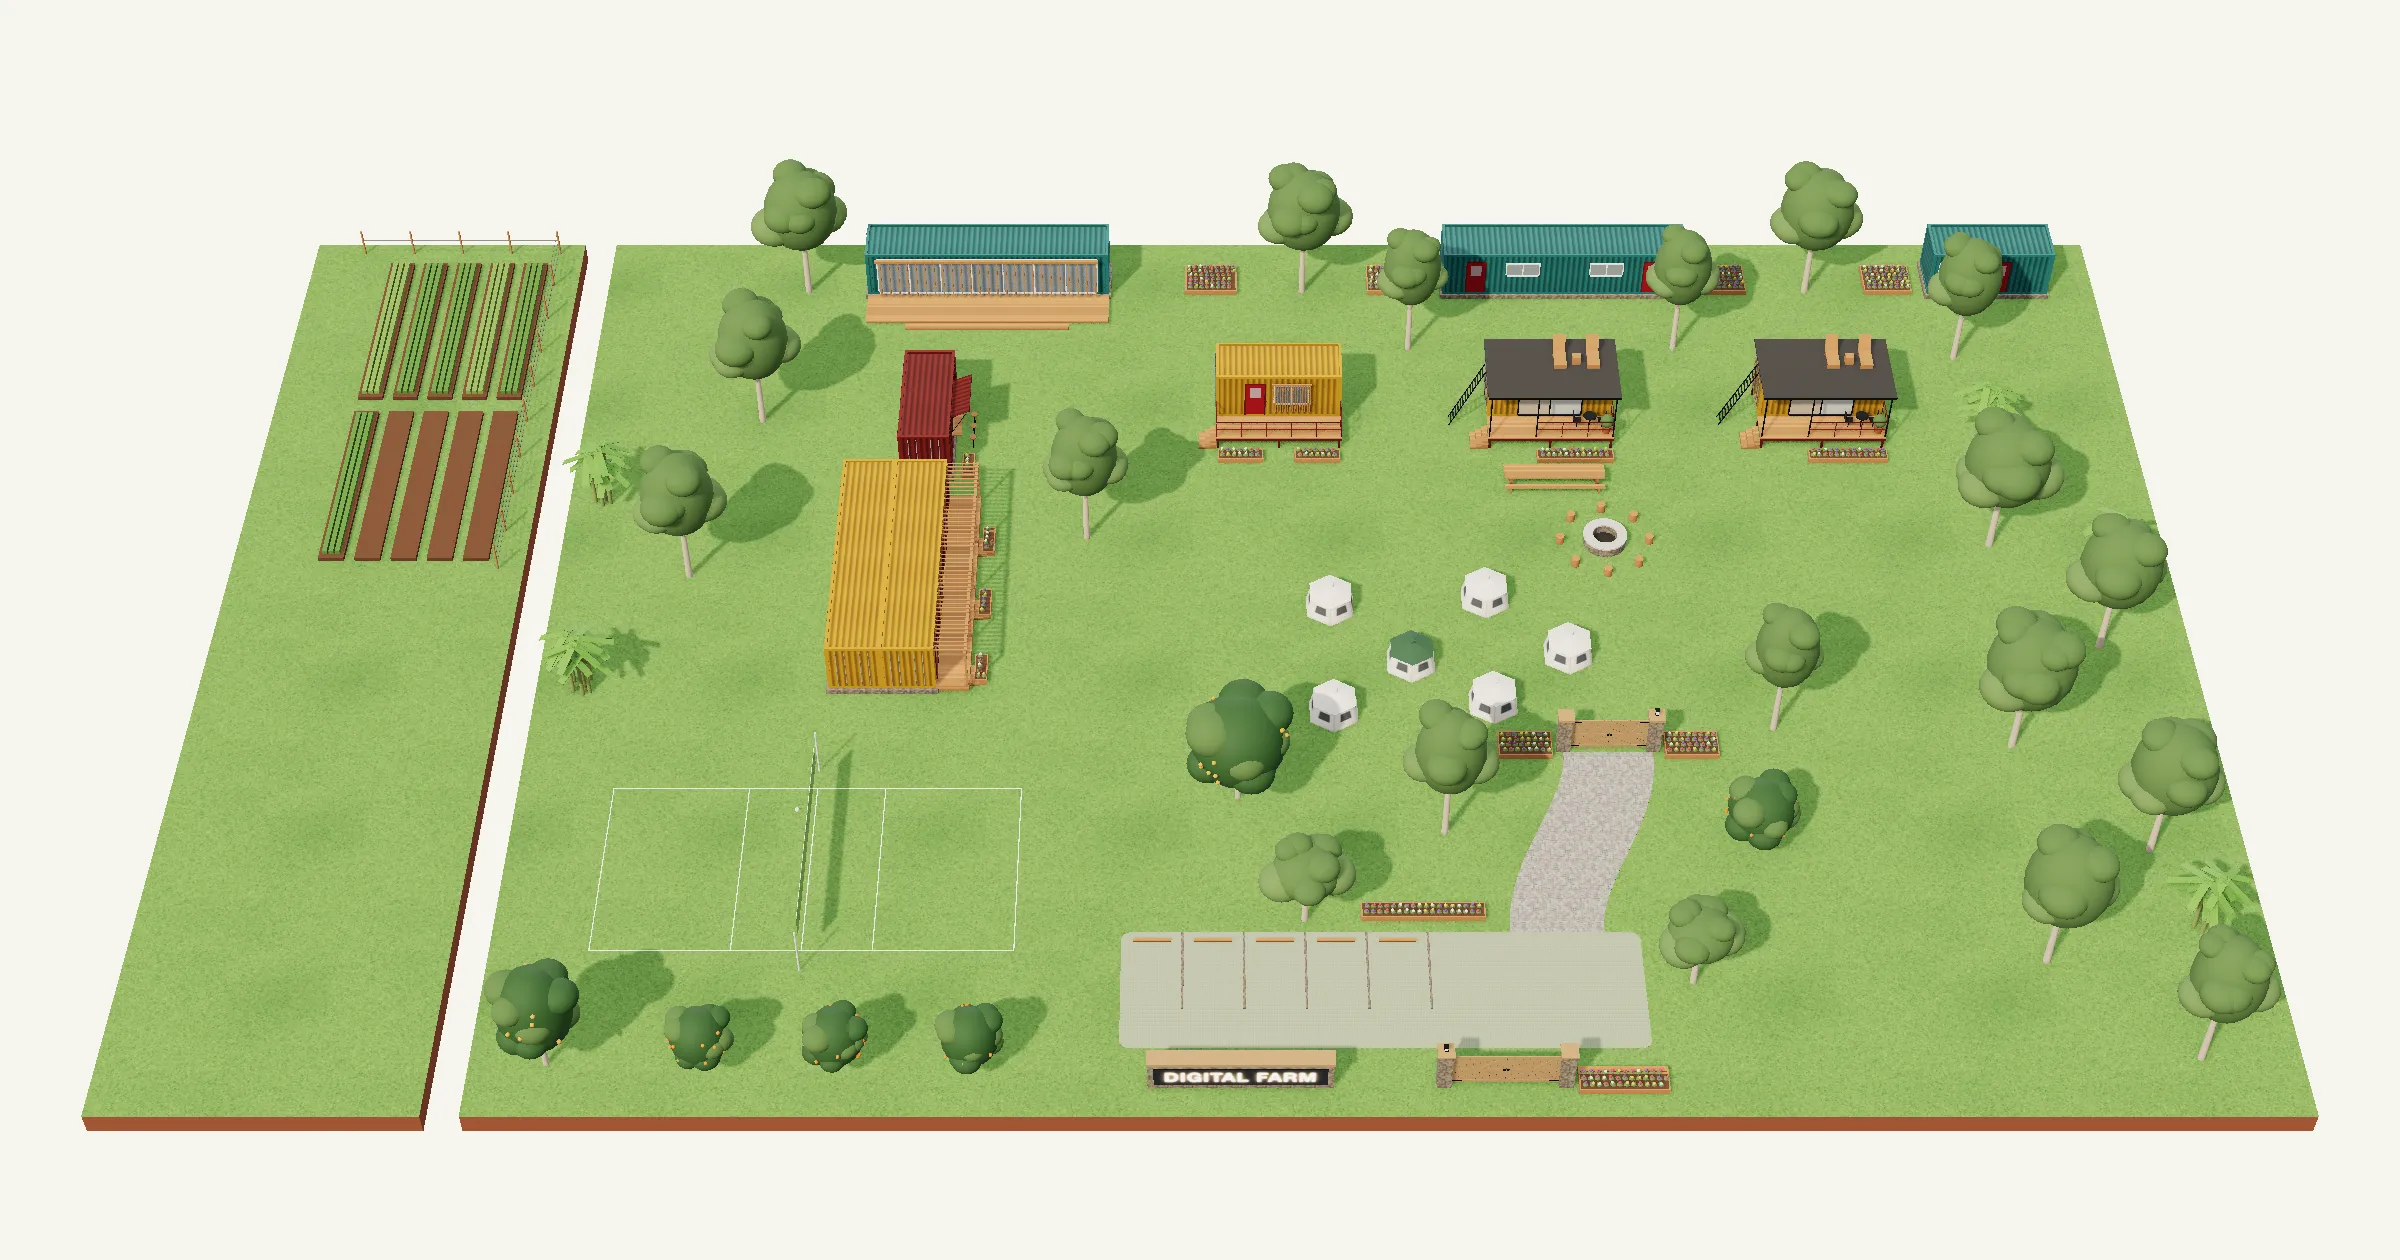
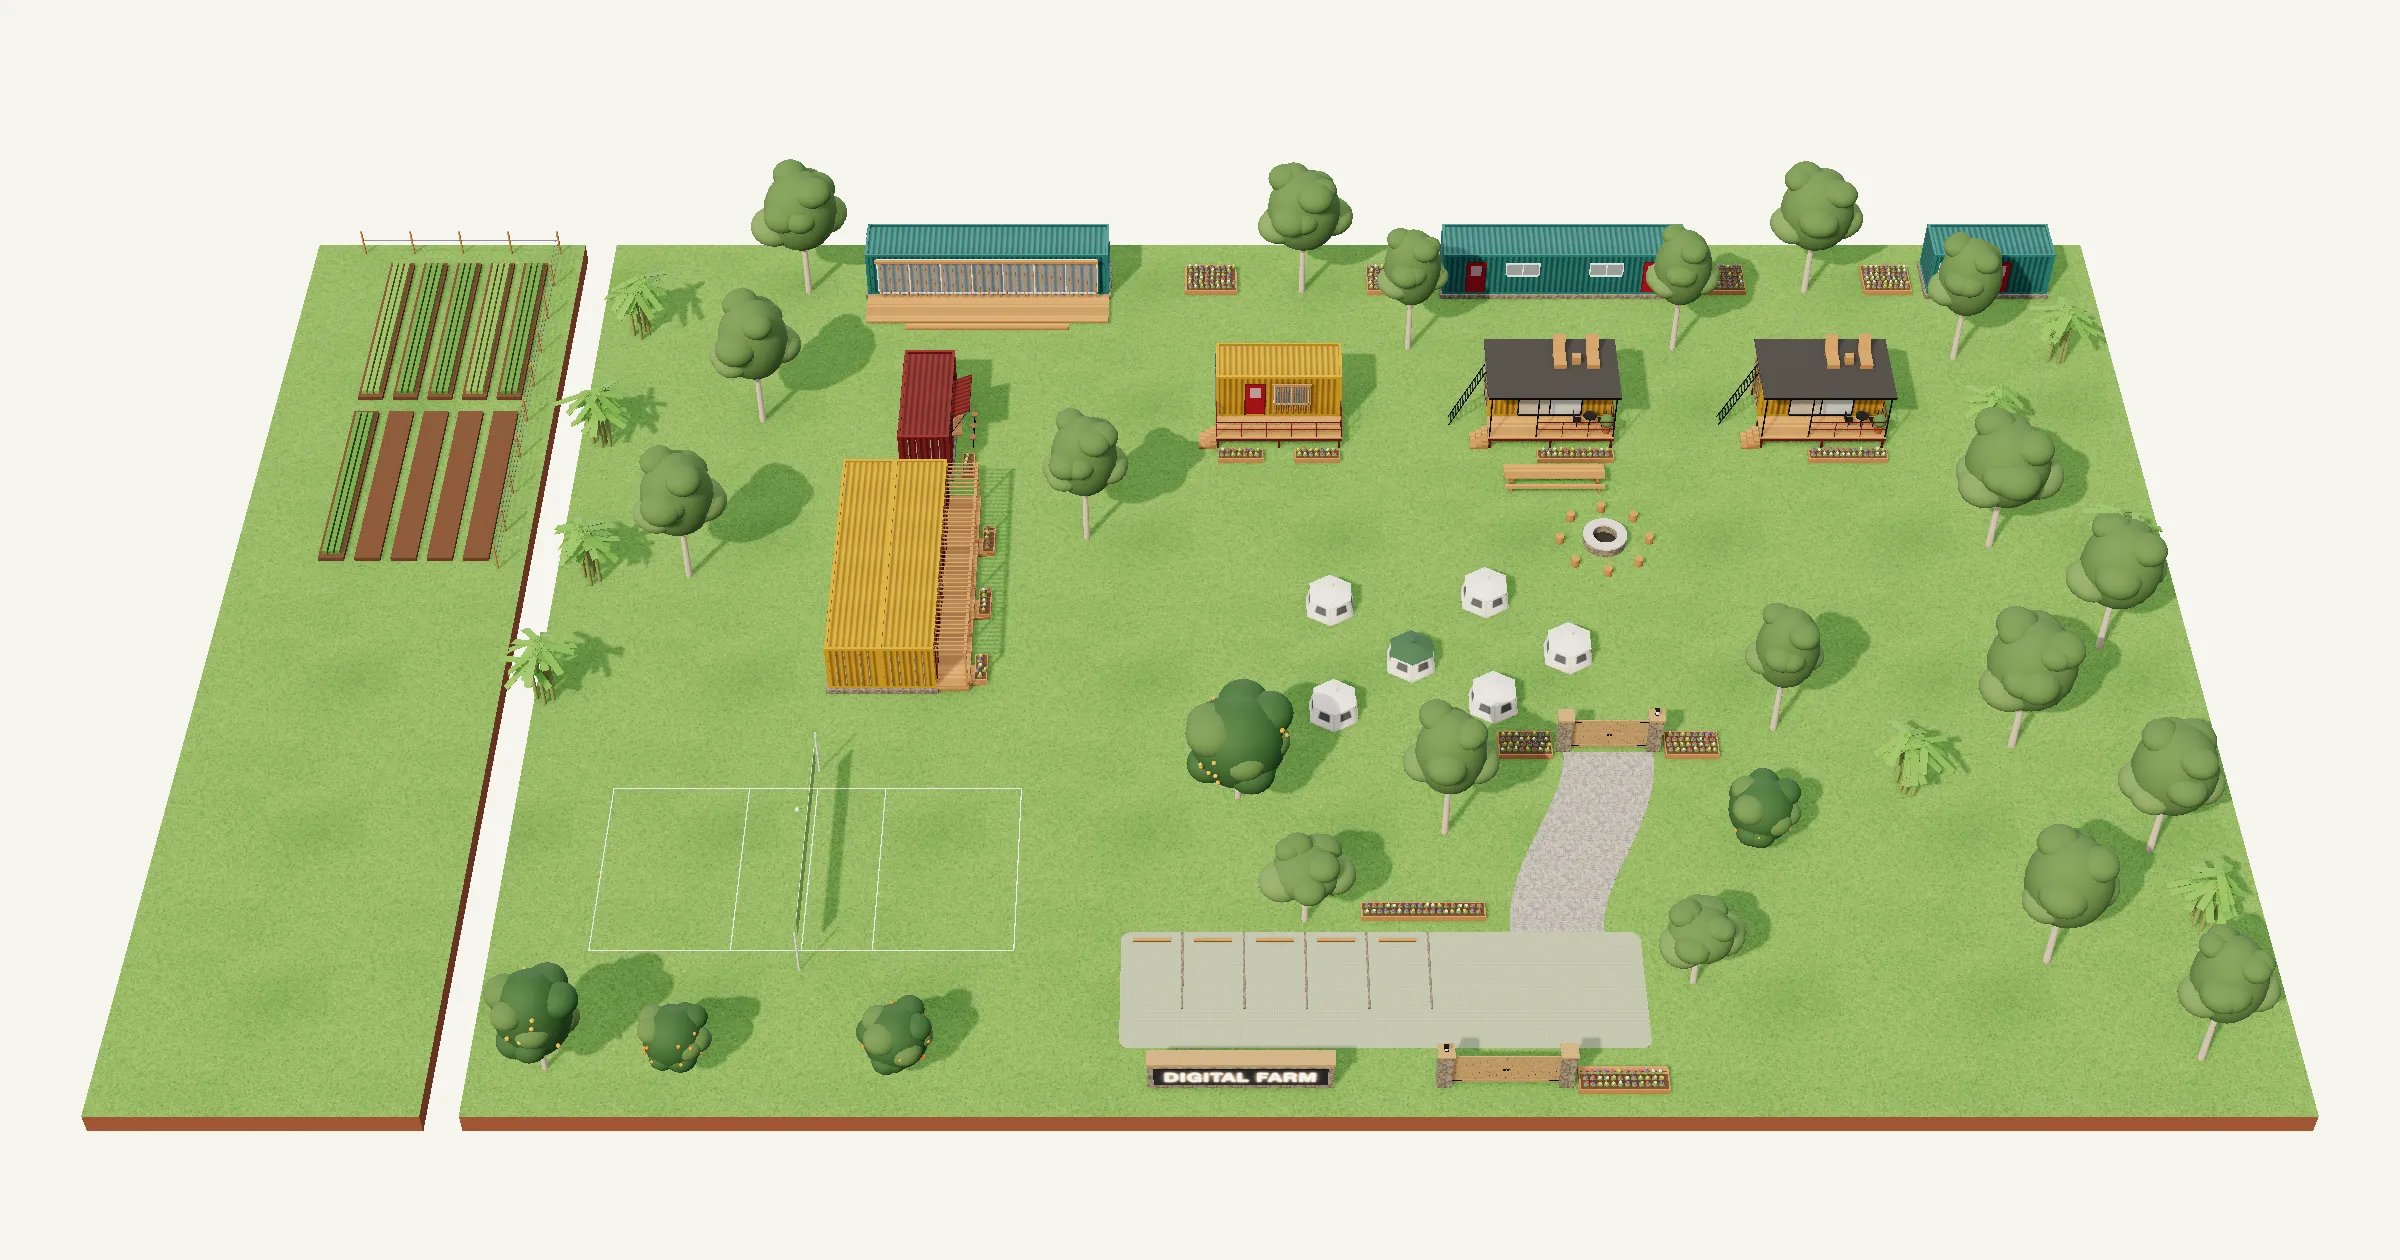
feat(home): the fruit trees as counted on the founder's picture, the same everywhere
The founder asked for one count of trees across the picture, the homepage
and the scene folders. garden.fruit now matches the A1 picture: two
mangoes, three orange trees and nine banana clumps (four between the field
and the guest rooms, five on the east lawn), each at least 1 m off the
court's free zone. The 2D and the re-rendered 3D draw them; scenes.mjs
reads the count from compound.json, so every prompt names the same trees;
the five other angles take the A1 picture as a reference too.

Refs D-071.

Claude-Session: https://claude.ai/code/session_01S6J7Hgv1KNEgdzApWwKxsU

diff --git a/src/components/home/words.ts b/src/components/home/words.ts
@@ -34,7 +34,7 @@ const en = {
   plans: {
     title: "2D",
     label:
-      "Plan of the compound, with the study room at the top and the gates at the bottom. At the top, the 40 ft study room on its deck, and beside it two buildings of their own: a 40 ft galley with a long worktop and two sinks, and a 20 ft public bathroom with two toilet rooms, two hand basins and a urinal. Below it, the row of three 20 ft containers on raised decks facing the courtyard: the farm office next to the bar, then two studios. Down the left, the bar and then the guest-room block in one line, their doors onto the veranda and the courtyard lawn: the stone fire pit with stools round it, a long timber table in front of the middle studio, and six small tents on a camping lawn between the guest rooms and the fire pit, ending at the fire. The study room's end is in line with the guest rooms. At the bottom, the inner gate, a rock road down to the green parking, and the outer gate beside the Digital Farm sign wall. On the lawn between the guest rooms and the parking, the volleyball court, 18 by 9 metres inside its 3 metre free zone, its long side across the plan and the net across its middle. To the left, past a break line, the land drawn close in one band from the study room to the first guest room: half of the vegetable field's two nearest blocks of raised beds behind their fence, turned to run west and cut there. At the cut an arrow links to the whole farm: the field, the nursery and the livestock. Through it all, the garden: big shade trees behind the study room and the galley, between the back row and the studios, beside the bar and the guest rooms, along the rock road and in a grove on the east lawn, and flower beds in the backyard, along each deck, by the guest rooms' windows, at both gates and behind the sign wall. Fruit trees, as in the founder's picture of the whole farm: a mango and three orange trees along the front lawn, a mango between the volleyball court and the tents, an orange beside the rock road, and banana clumps along the field's side and on the east lawn. Every name on the plan links to its page.",
+      "Plan of the compound, with the study room at the top and the gates at the bottom. At the top, the 40 ft study room on its deck, and beside it two buildings of their own: a 40 ft galley with a long worktop and two sinks, and a 20 ft public bathroom with two toilet rooms, two hand basins and a urinal. Below it, the row of three 20 ft containers on raised decks facing the courtyard: the farm office next to the bar, then two studios. Down the left, the bar and then the guest-room block in one line, their doors onto the veranda and the courtyard lawn: the stone fire pit with stools round it, a long timber table in front of the middle studio, and six small tents on a camping lawn between the guest rooms and the fire pit, ending at the fire. The study room's end is in line with the guest rooms. At the bottom, the inner gate, a rock road down to the green parking, and the outer gate beside the Digital Farm sign wall. On the lawn between the guest rooms and the parking, the volleyball court, 18 by 9 metres inside its 3 metre free zone, its long side across the plan and the net across its middle. To the left, past a break line, the land drawn close in one band from the study room to the first guest room: half of the vegetable field's two nearest blocks of raised beds behind their fence, turned to run west and cut there. At the cut an arrow links to the whole farm: the field, the nursery and the livestock. Through it all, the garden: big shade trees behind the study room and the galley, between the back row and the studios, beside the bar and the guest rooms, along the rock road and in a grove on the east lawn, and flower beds in the backyard, along each deck, by the guest rooms' windows, at both gates and behind the sign wall. Fruit trees, as in the founder's picture of the whole farm: two mango trees, one at the front lawn's corner and one between the volleyball court and the tents; three orange trees, two along the front lawn and one beside the rock road; and nine banana clumps, four between the field and the guest rooms and five on the east lawn. Every name on the plan links to its page.",
     note: "Illustrative plan: containers drawn to size, layout not surveyed. The field is drawn close and cut at half; the farming page has all of it, with the nursery and the livestock.",
   },
   // The names drawn on the plan (compound-plan.tsx); a building's name by its compound.json id.
@@ -187,7 +187,7 @@ const rw: typeof en = {
   plans: {
     title: "2D",
     label:
-      "Igishushanyo cy'urugo, icyumba cyo kwigiramo kiri hejuru n'amarembo ari hasi. Hejuru, icyumba cyo kwigiramo cya ft 40 ku rubaho rwacyo, n'iruhande rwacyo inyubako ebyiri zihagaze ukwazo: igikoni cya ft 40 gifite kawunta ndende n'amalavabo abiri, n'ubwiherero rusange bwa ft 20 bufite ibyumba bibiri by'ubwiherero, amalavabo abiri yo gukaraba intoki n'aho abagabo banyarira (urinal). Munsi yacyo, umurongo w'amakontineri atatu ya ft 20 ku mbaho zizamuye zireba urugo rwo hagati: ibiro by'ifamu iruhande rw'akabari, hanyuma sitidiyo ebyiri. Ku ruhande rw'ibumoso, akabari hanyuma inyubako y'ibyumba by'abashyitsi ku murongo umwe, inzugi zabyo zireba ibaraza n'ibyatsi by'urugo rwo hagati: iziko ry'amabuye rikikijwe n'intebe, ameza maremare y'imbaho imbere ya sitidiyo yo hagati, n'amahema mato atandatu ku byatsi byo gukambikamo hagati y'ibyumba by'abashyitsi n'iziko, arangirira ku muriro. Impera y'icyumba cyo kwigiramo iri ku murongo umwe n'ibyumba by'abashyitsi. Hasi, irembo ry'imbere, umuhanda w'amabuye umanuka ugana kuri parikingi y'ibyatsi, n'irembo ryo hanze iruhande rw'urukuta rwanditseho Digital Farm. Ku byatsi biri hagati y'ibyumba by'abashyitsi na parikingi, ikibuga cya volleyball cya metero 18 kuri 9 imbere y'umwanya wacyo w'ubwisanzure wa metero 3, uruhande rwacyo rurerure rutambitse ku gishushanyo n'urushundura hagati yacyo. Ibumoso, nyuma y'umurongo ugabanya, ubutaka bushushanyije bwegerejwe mu mukandara umwe kuva ku cyumba cyo kwigiramo kugeza ku cyumba cya mbere cy'abashyitsi: kimwe cya kabiri cy'amatsinda abiri y'uturima tuzamuye tw'umurima w'imboga twegereye kurusha utundi, inyuma y'uruzitiro rwatwo, duhindukiye tugana iburengerazuba kandi dukatiwe aho. Aho bikatiwe, umwambi werekeza ku ifamu yose: umurima, ubuhumbikiro n'ubworozi. Hose, ubusitani: ibiti binini by'igicucu inyuma y'icyumba cyo kwigiramo n'igikoni, hagati y'umurongo w'inyuma na sitidiyo, iruhande rw'akabari n'ibyumba by'abashyitsi, ku nkengero z'umuhanda w'amabuye no mu ishyamba rito ku byatsi by'iburasirazuba, n'uturima tw'indabo mu gikari, ku nkengero za buri rubaho, iruhande rw'amadirishya y'ibyumba by'abashyitsi, ku marembo yombi n'inyuma y'urukuta rw'izina. Ibiti by'imbuto nk'uko biri ku ifoto y'umurima wose: umwembe n'amacunga atatu ku byatsi by'imbere, umwembe hagati y'ikibuga cya volleyball n'amahema, icunga iruhande rw'umuhanda w'amabuye, n'insina ku ruhande rw'umurima no ku byatsi by'iburasirazuba. Buri zina riri ku gishushanyo rifungura paji yaryo.",
+      "Igishushanyo cy'urugo, icyumba cyo kwigiramo kiri hejuru n'amarembo ari hasi. Hejuru, icyumba cyo kwigiramo cya ft 40 ku rubaho rwacyo, n'iruhande rwacyo inyubako ebyiri zihagaze ukwazo: igikoni cya ft 40 gifite kawunta ndende n'amalavabo abiri, n'ubwiherero rusange bwa ft 20 bufite ibyumba bibiri by'ubwiherero, amalavabo abiri yo gukaraba intoki n'aho abagabo banyarira (urinal). Munsi yacyo, umurongo w'amakontineri atatu ya ft 20 ku mbaho zizamuye zireba urugo rwo hagati: ibiro by'ifamu iruhande rw'akabari, hanyuma sitidiyo ebyiri. Ku ruhande rw'ibumoso, akabari hanyuma inyubako y'ibyumba by'abashyitsi ku murongo umwe, inzugi zabyo zireba ibaraza n'ibyatsi by'urugo rwo hagati: iziko ry'amabuye rikikijwe n'intebe, ameza maremare y'imbaho imbere ya sitidiyo yo hagati, n'amahema mato atandatu ku byatsi byo gukambikamo hagati y'ibyumba by'abashyitsi n'iziko, arangirira ku muriro. Impera y'icyumba cyo kwigiramo iri ku murongo umwe n'ibyumba by'abashyitsi. Hasi, irembo ry'imbere, umuhanda w'amabuye umanuka ugana kuri parikingi y'ibyatsi, n'irembo ryo hanze iruhande rw'urukuta rwanditseho Digital Farm. Ku byatsi biri hagati y'ibyumba by'abashyitsi na parikingi, ikibuga cya volleyball cya metero 18 kuri 9 imbere y'umwanya wacyo w'ubwisanzure wa metero 3, uruhande rwacyo rurerure rutambitse ku gishushanyo n'urushundura hagati yacyo. Ibumoso, nyuma y'umurongo ugabanya, ubutaka bushushanyije bwegerejwe mu mukandara umwe kuva ku cyumba cyo kwigiramo kugeza ku cyumba cya mbere cy'abashyitsi: kimwe cya kabiri cy'amatsinda abiri y'uturima tuzamuye tw'umurima w'imboga twegereye kurusha utundi, inyuma y'uruzitiro rwatwo, duhindukiye tugana iburengerazuba kandi dukatiwe aho. Aho bikatiwe, umwambi werekeza ku ifamu yose: umurima, ubuhumbikiro n'ubworozi. Hose, ubusitani: ibiti binini by'igicucu inyuma y'icyumba cyo kwigiramo n'igikoni, hagati y'umurongo w'inyuma na sitidiyo, iruhande rw'akabari n'ibyumba by'abashyitsi, ku nkengero z'umuhanda w'amabuye no mu ishyamba rito ku byatsi by'iburasirazuba, n'uturima tw'indabo mu gikari, ku nkengero za buri rubaho, iruhande rw'amadirishya y'ibyumba by'abashyitsi, ku marembo yombi n'inyuma y'urukuta rw'izina. Ibiti by'imbuto nk'uko biri ku ifoto y'umurima wose: imyembe ibiri, umwe ku nguni y'ibyatsi by'imbere n'undi hagati y'ikibuga cya volleyball n'amahema; ibiti bitatu by'amacunga, bibiri ku byatsi by'imbere n'ikimwe iruhande rw'umuhanda w'amabuye; n'insina icyenda, enye hagati y'umurima n'ibyumba by'abashyitsi n'eshanu ku byatsi by'iburasirazuba. Buri zina riri ku gishushanyo rifungura paji yaryo.",
     note: "Igishushanyo cyo gusobanura: amakontineri ashushanyije ku ngano yayo nyayo, ariko imiterere ntirapimwa ku butaka. Umurima ushushanyije wegerejwe kandi ukatiwe hagati; paji y'ubuhinzi iwugaragaza wose, hamwe n'ubuhumbikiro n'ubworozi.",
   },
   plan: {

diff --git a/src/lib/design-blur.generated.ts b/src/lib/design-blur.generated.ts
@@ -6,7 +6,7 @@ export const DESIGN_BLUR: Record<string, string> = {
[8 lines of base64/hex data omitted]

diff --git a/study/execution/decision-log.md b/study/execution/decision-log.md
@@ -245,4 +245,4 @@ Context: the founder sent four photos (2026-10-31 11:37, media dn-3279 to dn-328
 Context: the founder said (2026-11-02) that the water's edge in the 2026-10-25 footage (IMG_3155 to IMG_3157, survey frames #1 to #7), which the homepage hero is remastered from, is on a second plot that is also ours, about 5 minutes from the land where the places stand. The footage agrees: the lake clips end at 16:31 and the gate clip starts at 16:37. Consequence: those rows in `study/registers/media.csv` move from `neighbour` to `land` (the lake plot); the ones with people stay private. D-027 holds for the compound plot (a neighbour's plot lies between it and the water) but no longer for the farm as a whole: the farm has a lakeside, on its second plot. The 50 m rule applies to anything built there, and the livestock stay on the compound plot's arm. The homepage film is a walk from the lake plot, along the road, through the gate and the parking, past every place as the homepage 2D lays them out; each place looks as its remastered hero does (concept, film.md rule 2). Still unknown: the lake plot's size, its boundary and its title (the pin or UPI, gate G0, now for two plots).
 
 **D-071 · 2026-11-02 · Fruit trees in the compound's garden, after the founder's picture of the whole farm.**
-Context: making the film's first scene image (A1, the whole farm from above the gate, in Nano Banana from the scene folders), the founder added fruit trees: mangoes heavy with fruit and orange trees along the front lawn and by the volleyball court, and banana clumps along the field's fence and on the east lawn. He asked for the homepage 2D and 3D to follow it and for the picture to be the reference. Decision: compound.json `garden.fruit` plants two mangoes (6 m, crown from 1.6 m), four oranges (3.6 m) and five banana clumps [A, varieties not chosen], at least 1 m off the volleyball court's free zone and clear of the tents, decks, parking and paths; the orange by the rock road takes the place of a shade tree. The 2D draws a fruit tree as a crown with its fruit ringed inside and a banana clump as fanned leaves; the 3D gives them dense dark crowns with fruit, and stems with arching leaves. The picture (media gm-scene-a1-front) is the last reference of every scene of the walk. Still open: the varieties, and whether the master plan's own trees (site.json) take fruit trees too; the AI's second entrance at the field's corner and the harvest crates are not taken.
+Context: making the film's first scene image (A1, the whole farm from above the gate, in Nano Banana from the scene folders), the founder added fruit trees: mangoes heavy with fruit and orange trees along the front lawn and by the volleyball court, and banana clumps along the field's fence and on the east lawn. He asked for the homepage 2D and 3D to follow it and for the picture to be the reference. Decision: compound.json `garden.fruit` plants the trees as counted on the picture, and every scene prompt names the same: two mangoes (6 m, crown from 1.6 m), three orange trees (3.6 m) and nine banana clumps, four between the field and the guest rooms and five on the east lawn [A, varieties not chosen], at least 1 m off the volleyball court's free zone and clear of the tents, decks, parking and paths; the orange by the rock road takes the place of a shade tree. The 2D draws a fruit tree as a crown with its fruit ringed inside and a banana clump as fanned leaves; the 3D gives them dense dark crowns with fruit, and stems with arching leaves. The picture (media gm-scene-a1-front) is a reference in every other scene folder, the five other angles and the walk. Still open: the varieties, and whether the master plan's own trees (site.json) take fruit trees too; the AI's second entrance at the field's corner and the harvest crates are not taken.
